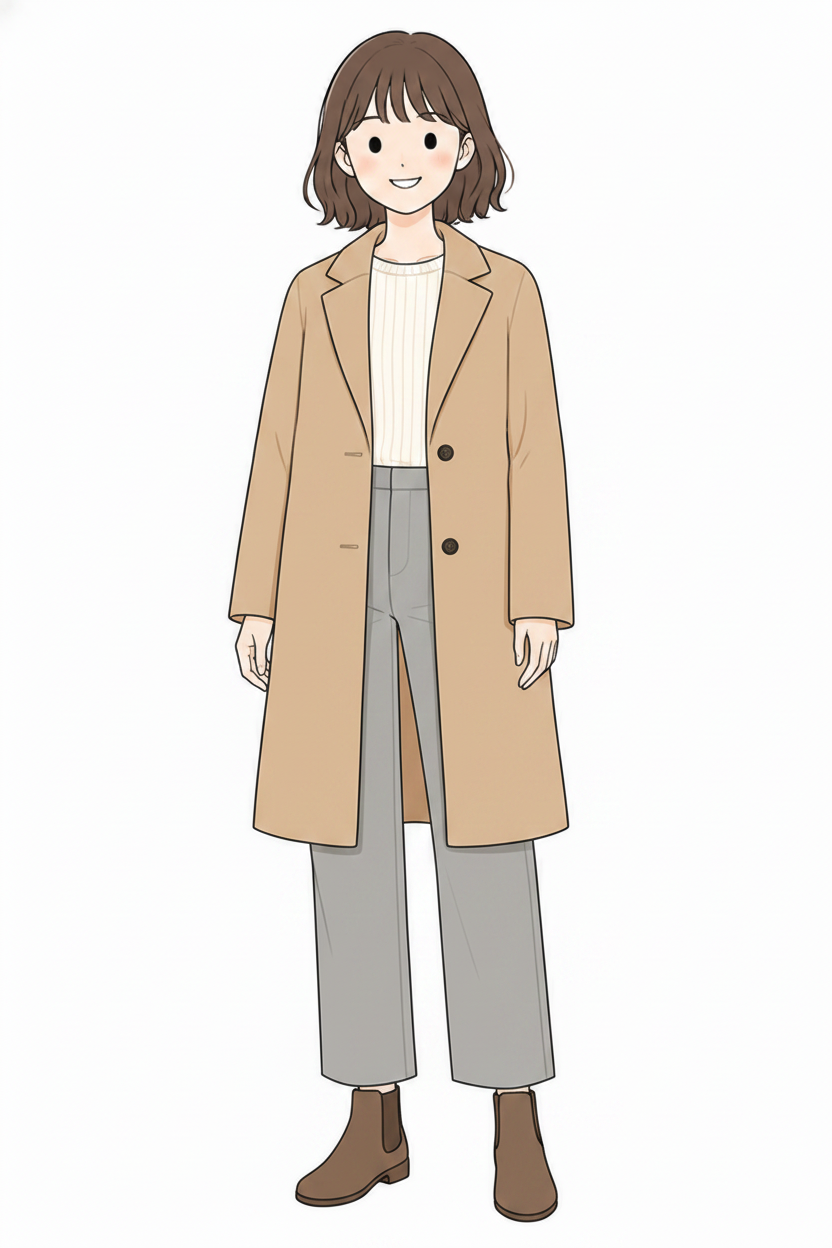
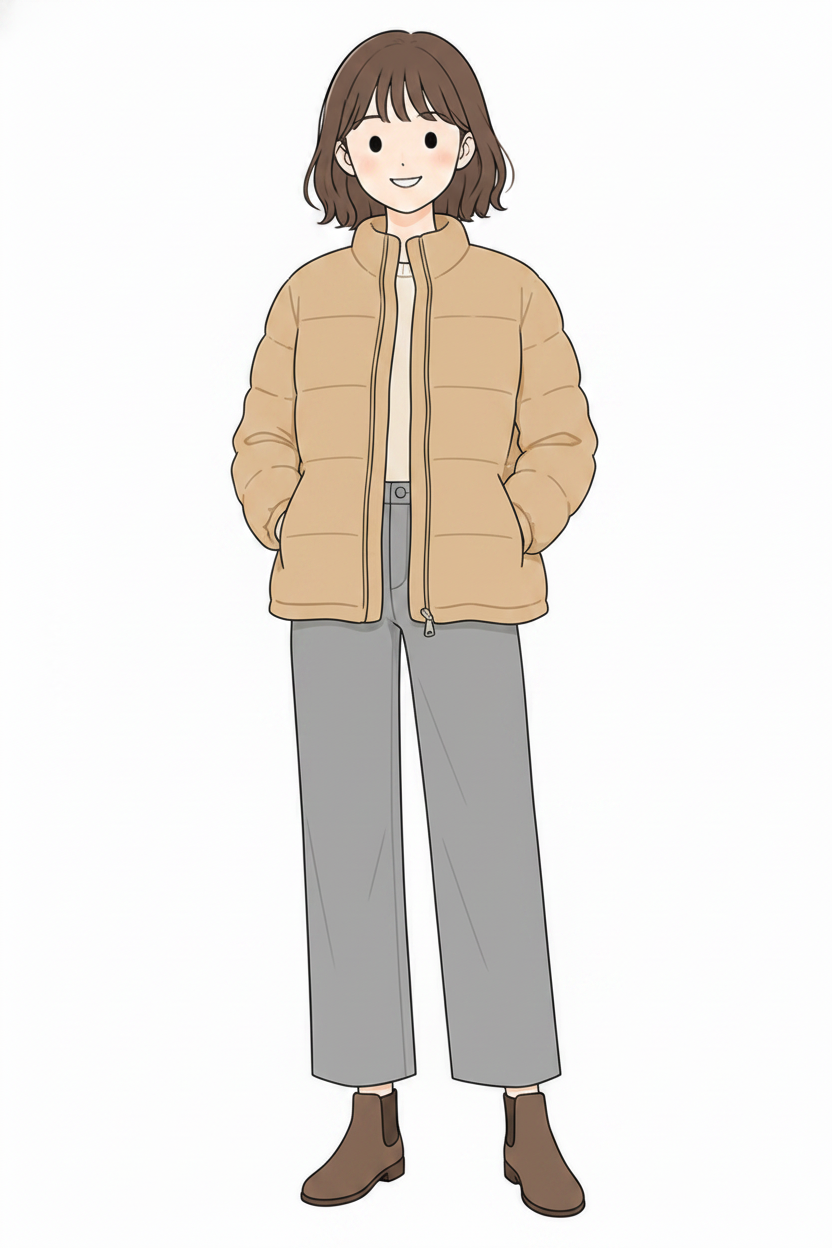
fix: 일러스트·추천 정합성 강화 + 우의 임계 상향 + 민감도 라벨 명확화
일러스트 교체 (Gemini Nano Banana 재생성):
- male-mild-v1: 베이지 가디건 → 아이보리 크루넥 맨투맨 (mid="맨투맨" 매칭)
- male-cold-v1 / female-cold-v1: 긴 울 피코트·트렌치 → 힙길이 경량 패딩 (outer="경량 패딩" 매칭)
- male-cool-layered-v1 / female-cool-layered-v1 신규: 맨투맨 + 오픈 데님 재킷 레이어드
  (캐논 male-cool-v1 보존 위해 별도 슬롯, SLOT_BY_ZONE.cool='cool-layered')
- rules.ts: 여성 cool mid를 "가디건" → "맨투맨"으로 정렬 (일러스트와 일치, 가이드 cool 표기 「니트·맨투맨」)

우의(rain-coat) 강수량 임계 상향 (사용자 피드백):
- RAIN_GEAR_THRESHOLD_MMH: 3 → 7 (보통 비 후반부터 옵션 노출)
- 낙뢰 위험 우의 필수: ptyCode==='4' 무조건 → 강수 ≥10mm/h 일 때만
- 약~보통 비 초반(<7mm/h)은 우산만 권장

체감 민감도 라벨:
- '더위 강함' → '현재-2도', '추위 강함' → '현재+2도' (콤보박스 표기를 보정값으로 명확화)

diff --git a/lib/outfit/recommender.ts b/lib/outfit/recommender.ts
@@ -216,23 +216,27 @@ export function recommendOutfit(input: OutfitInput): OutfitResult {
 
   // Rain / snow items
   // 기상청 강우 강도 분류(시간당 강수량): 약한 비 <3mm, 보통 비 3~15mm, 강한 비 ≥15mm
-  // 약한 비(<3mm/h)에선 우산만으로 충분 — 방수 신발·우의는 보통 비 이상(≥3mm/h)에서만 선택 추천
-  const RAIN_GEAR_THRESHOLD_MMH = 3
+  // 사용자 피드백 반영(2026-05): 약한~보통 비 초반(<7mm/h)에서는 우산만으로 충분.
+  //  - 우의(비옷)·방수 신발 옵션은 보통 비 후반(≥7mm/h)부터 권장
+  //  - 낙뢰 위험 우의 필수(우산 사용 자제) 임계도 강수 ≥10mm/h로 상향
+  const RAIN_GEAR_THRESHOLD_MMH = 7
+  const LIGHTNING_PRECIP_MMH = 10
   const rainAlert = input.ptyCode !== '0'
   if (rainAlert) {
     if (input.ptyCode === '1' || input.ptyCode === '4') {
       // 낙뢰 위험 시 우산보다 비옷 권장 (기상청 낙뢰 행동요령)
-      const lightningRisk = input.ptyCode === '4' || input.precipitation >= 5
+      // ptyCode '4'(소나기) 자체로는 낙뢰가 즉시 위험하지 않음 — 강수 ≥10mm/h 또는 강한 비일 때만 우의 필수
+      const lightningRisk = input.precipitation >= LIGHTNING_PRECIP_MMH
       if (lightningRisk) {
-        allItems.push({ id: 'rain-coat', name: '우의', icon: '🌂', category: 'rain', required: true, condition: '낙뢰 위험 시 우산 사용 자제' })
+        allItems.push({ id: 'rain-coat', name: '우의', icon: '🌂', category: 'rain', required: true, condition: `강한 비(${LIGHTNING_PRECIP_MMH}mm/h↑)·낙뢰 위험 시 우산 사용 자제` })
       } else {
         allItems.push({ id: 'rain-umbrella', name: '우산', icon: '☂', category: 'rain', required: true })
         if (input.precipitation >= RAIN_GEAR_THRESHOLD_MMH) {
-          allItems.push({ id: 'rain-coat', name: '우의', icon: '🌂', category: 'rain', required: false, condition: `보통 비 이상(${RAIN_GEAR_THRESHOLD_MMH}mm/h↑) — 기상청 강우 강도 기준` })
+          allItems.push({ id: 'rain-coat', name: '우의', icon: '🌂', category: 'rain', required: false, condition: `보통 비 후반(${RAIN_GEAR_THRESHOLD_MMH}mm/h↑) — 우산만으론 부족할 때 선택` })
         }
       }
       if (input.precipitation >= RAIN_GEAR_THRESHOLD_MMH) {
-        allItems.push({ id: 'rain-shoes', name: '방수 신발', icon: '🥾', category: 'foot', required: false, condition: `보통 비 이상(${RAIN_GEAR_THRESHOLD_MMH}mm/h↑) — 젖은 노면 안전` })
+        allItems.push({ id: 'rain-shoes', name: '방수 신발', icon: '🥾', category: 'foot', required: false, condition: `보통 비 후반(${RAIN_GEAR_THRESHOLD_MMH}mm/h↑) — 젖은 노면 안전` })
       }
     } else if (input.ptyCode === '3' || input.ptyCode === '2') {
       allItems.push({ id: 'rain-boots', name: '방수 신발', icon: '🥾', category: 'foot', required: true })

diff --git a/components/outfit/OutfitPanel.tsx b/components/outfit/OutfitPanel.tsx
@@ -71,15 +71,15 @@ interface Props {
 type SensitivityLevel = -2 | 0 | 2
 
 const SENSITIVITY_OPTIONS: { value: SensitivityLevel; label: string; emoji: string; desc: string }[] = [
-  { value: -2, label: '더위 강함', emoji: '🥶', desc: '더위를 덜 타는 편이에요' },
+  { value: -2, label: '현재-2도', emoji: '🥶', desc: '더위를 덜 타는 편이에요' },
   { value: 0,  label: '체감 보통', emoji: '😊', desc: '평균 체감' },
-  { value: 2,  label: '추위 강함', emoji: '🥵', desc: '추위를 덜 타는 편이에요' },
+  { value: 2,  label: '현재+2도', emoji: '🥵', desc: '추위를 덜 타는 편이에요' },
 ]
 
 const SENSITIVITY_LABEL_MAP: Record<SensitivityLevel, string> = {
-  [-2]: '더위 강함',
+  [-2]: '현재-2도',
   [0]: '체감 보통',
-  [2]: '추위 강함',
+  [2]: '현재+2도',
 }
 
 const ACTIVITY_DEFAULT_DURATION_HOURS: Record<ActivityType, number> = {

diff --git a/lib/outfit/characterIllust.ts b/lib/outfit/characterIllust.ts
@@ -6,14 +6,15 @@ const CHAR_BASE = '/outfit/characters'
  * 체감 구간 → 베이스 슬롯.
  * `public/outfit/characters/{female|male}-{slot}-v1.png` — 슬롯을 합치려면 여기서 동일 문자열로 매핑.
  *
- * warm(23~27℃): 가이드 라.2 「얇은 긴팔 셔츠」 항목 → 28℃+ 반팔과 시각적으로 구분되도록
- * 별도 슬롯 `warm-shirt`(긴팔 셔츠 캐릭터)를 사용합니다.
+ * - warm(23~27℃) → `warm-shirt`: 얇은 긴팔 셔츠 (28℃+ 반팔과 구분)
+ * - cool(12~17℃) → `cool-layered`: 맨투맨/가디건 + 얇은 점퍼 레이어드
+ *   (캐논 male-cool-v1을 보존하기 위해 별도 슬롯 사용)
  */
 const SLOT_BY_ZONE: Record<TempZone, string> = {
   hot: 'hot',
   warm: 'warm-shirt',
   mild: 'mild',
-  cool: 'cool',
+  cool: 'cool-layered',
   cold: 'cold',
   freezing: 'freezing',
 }

diff --git a/lib/outfit/rules.ts b/lib/outfit/rules.ts
@@ -258,7 +258,7 @@ export function getBaseItems(
     if (gender === 'male') {
       items.push({ id: 'mid-cardigan', name: '맨투맨', icon: '🧥', category: 'mid', required: true, condition: '점퍼 안에 레이어드 — 함께 착용' })
     } else {
-      items.push({ id: 'mid-cardigan-f', name: '가디건', icon: '🧥', category: 'mid', required: true, condition: '점퍼 안에 레이어드 — 함께 착용' })
+      items.push({ id: 'mid-cardigan-f', name: '맨투맨', icon: '🧥', category: 'mid', required: true, condition: '점퍼 안에 레이어드 — 함께 착용' })
     }
   } else if (zone === 'cold' || zone === 'freezing') {
     if (gender === 'male') {
